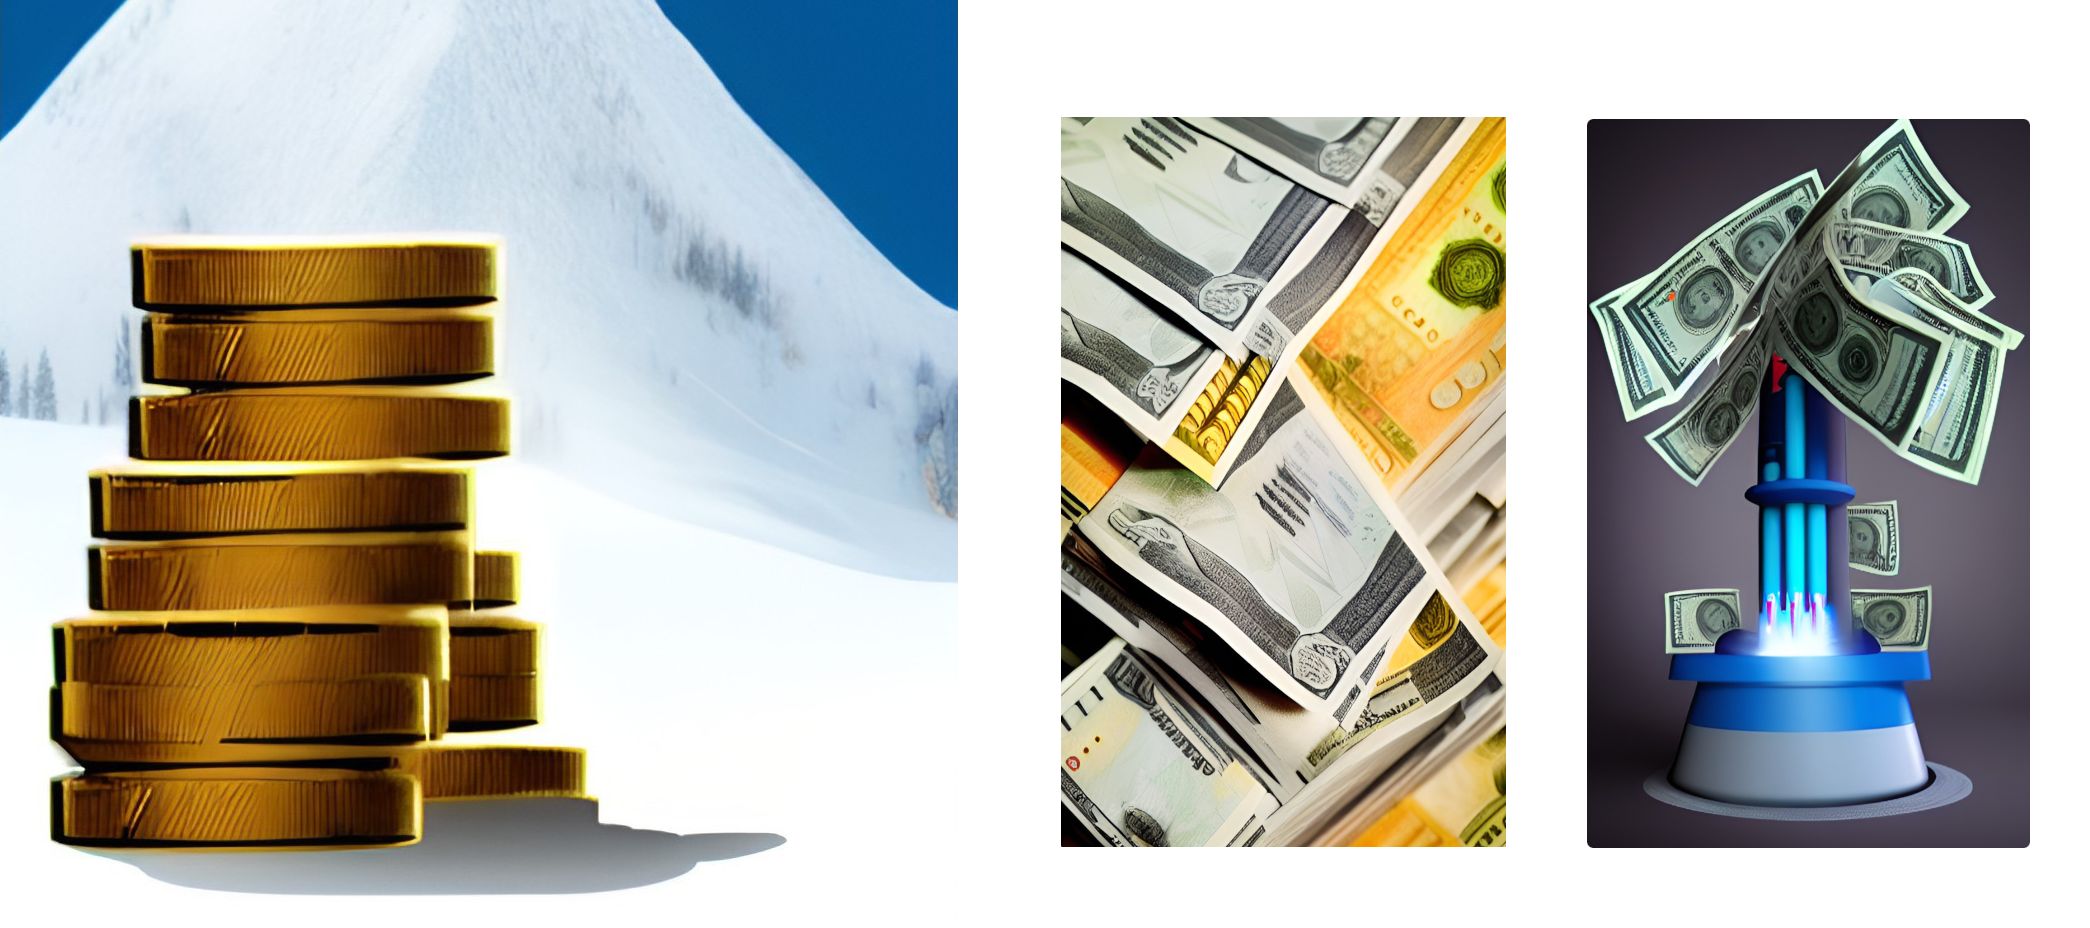
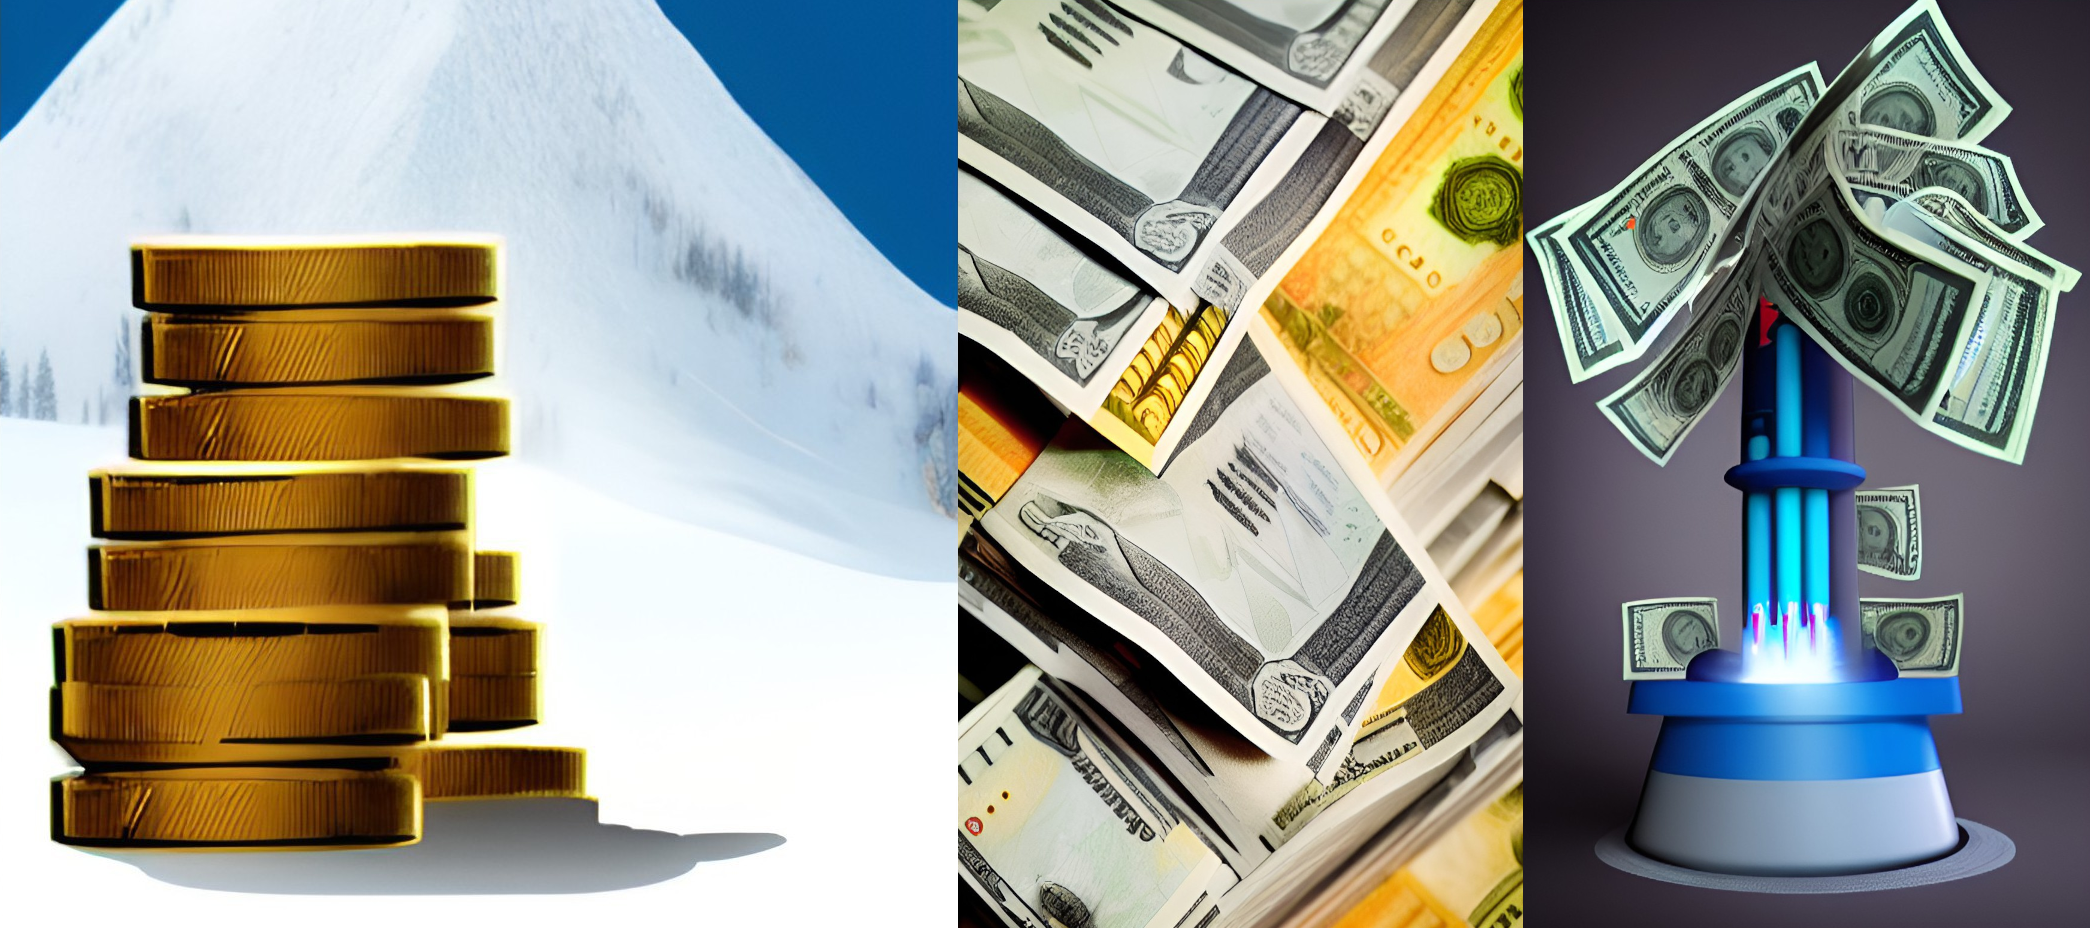
Magic Formula adaptations

diff --git a/components/Strategies/MagicFormula/index.tsx b/components/Strategies/MagicFormula/index.tsx
@@ -11,10 +11,10 @@ import {
   useTableColumnsClosedPositions,
 } from "@/components/Portfolio/useTableColumns";
 import Image from "next/image";
-// import MagicFormulaImage1 from "./MagicFormulaImage1.png";
-import MagicFormulaImage11 from "./MagicFormulaImage11.png";
+import MagicFormulaImage1 from "./MagicFormulaImage1.png";
 import MagicFormulaImage2 from "./MagicFormulaImage2.png";
 import MagicFormulaImage3 from "./MagicFormulaImage3.png";
+import DreamAICaption from "@/components/common/Caption/DreamAICaption";
 
 const MagicFormula = ({
   positionOpen,
@@ -62,7 +62,7 @@ const MagicFormula = ({
         <div className="flex flex-row my-5">
           <div className="basis-1/12"></div>
           <div className="flex flex-col basis-10/12">
-            <div id="whatisit" className="flex mt-16 mb-16 scroll-mt-10">
+            <div id="whatisit" className="flex mt-16 mb-16 scroll-mt-14">
               <div className="basis-6/12 align-middle justify-center my-auto text-center">
                 <h1>What Is It?</h1>
               </div>
@@ -97,10 +97,10 @@ const MagicFormula = ({
                 </p>
               </div>
             </div>
-            <div className="mx-auto justify-center align-middle mt-14 scroll-mt-10">
+            <div className="mx-auto justify-center align-middle mt-14 scroll-mt-14">
               <YoutubeEmbed embedId="fzig7KJFuNU" />
             </div>
-            <div id="inpractice" className="flex mt-14 mb-14 scroll-mt-10">
+            <div id="inpractice" className="flex mt-14 mb-14 scroll-mt-14">
               <div className="basis-5/12 text-center mt-32">
                 <h1>In Practice</h1>
               </div>
@@ -187,15 +187,16 @@ const MagicFormula = ({
                 </div>
               </div>
             </div>
-            <div className="align-middle justify-center mx-auto mt-16 mb-16 scroll-mt-10">
+            <div className="align-middle justify-center mx-auto mt-16 mb-16 scroll-mt-14">
               <Image
-                src={MagicFormulaImage11}
+                src={MagicFormulaImage1}
                 alt={`Art Images Banner`}
                 width={1045}
                 height={464}
               ></Image>
+              <DreamAICaption />
             </div>
-            <div id="wanthigherreturns" className="flex mb-16 scroll-mt-10">
+            <div id="wanthigherreturns" className="flex mb-16 scroll-mt-14">
               <div className="basis-5/12">
                 <h1>Want higher returns?</h1>
               </div>
@@ -253,15 +254,16 @@ const MagicFormula = ({
                 </div>
               </div>
             </div>
-            <div className="align-middle justify-center mx-auto mt-16 mb-16 scroll-mt-10">
+            <div className="align-middle justify-center mx-auto mt-16 mb-16 scroll-mt-14">
               <Image
                 src={MagicFormulaImage2}
                 alt={`Art Images Banner`}
                 width={1045}
                 height={464}
               ></Image>
+              <DreamAICaption />
             </div>
-            <div id="magicFormulaExplanation" className="flex scroll-mt-10">
+            <div id="magicFormulaExplanation" className="flex scroll-mt-14">
               <div className="basis-5/12 pr-9">
                 <h1>The "Magic Formula" formula</h1>
               </div>
@@ -313,13 +315,14 @@ const MagicFormula = ({
                 </div>
               </div>
             </div>
-            <div className="align-middle justify-center mx-auto mt-16 mb-16 scroll-mt-10">
+            <div className="align-middle justify-center mx-auto mt-16 mb-16 scroll-mt-14">
               <Image
                 src={MagicFormulaImage3}
                 alt={`Art Images Banner`}
                 width={1045}
                 height={464}
               ></Image>
+              <DreamAICaption />
             </div>
             {openPositionData.length > 0 && (
               <div>
@@ -332,7 +335,7 @@ const MagicFormula = ({
             )}
             {closedPositionData.length > 0 && (
               <div>
-                <h1 id="closedpositions scroll-mt-10">Closed Positions</h1>
+                <h1 id="closedpositions scroll-mt-14">Closed Positions</h1>
                 <TableClosedPositions
                   columns={columnsClosed}
                   data={closedPositionData}
